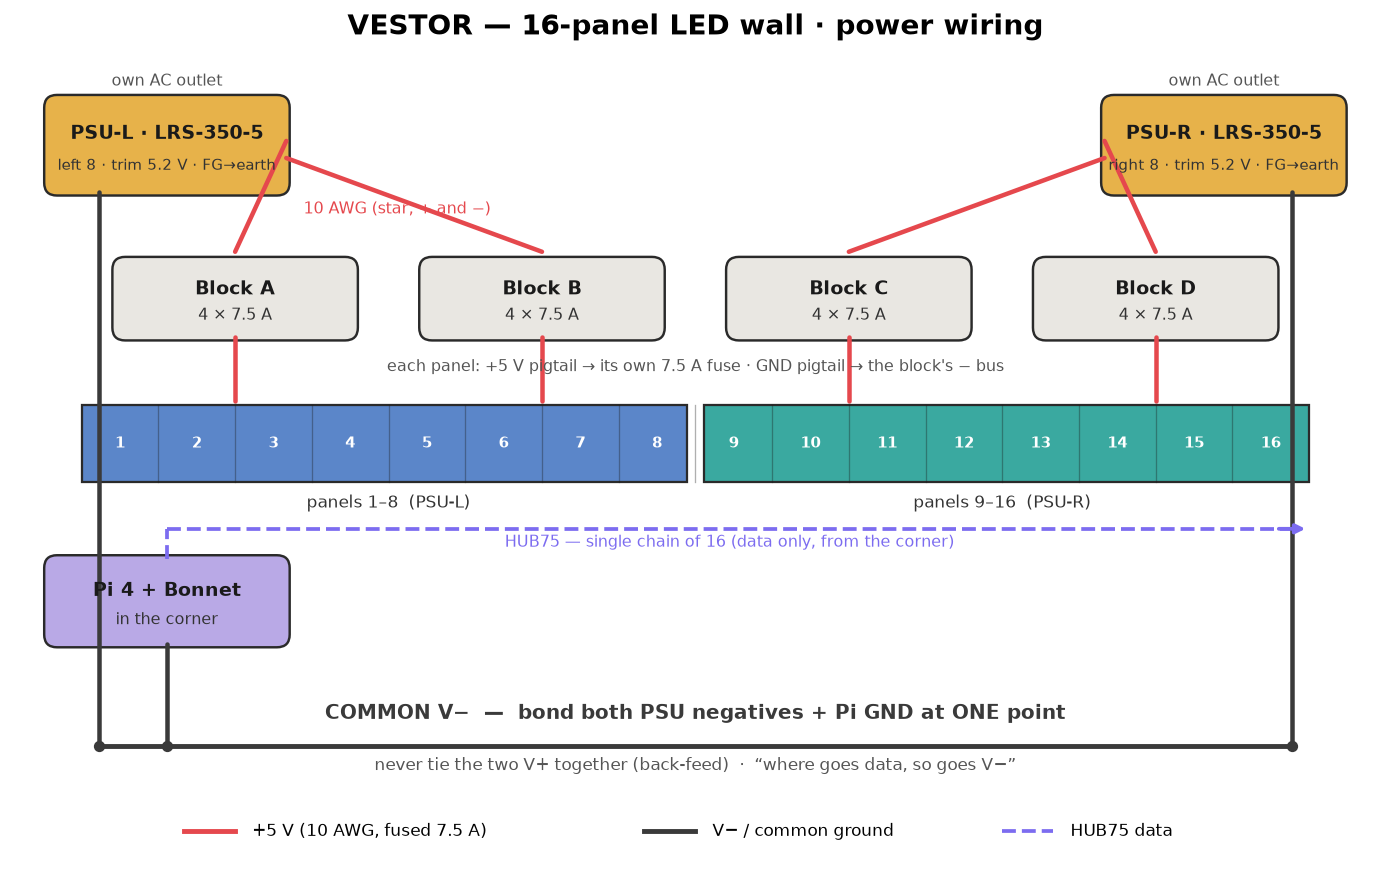
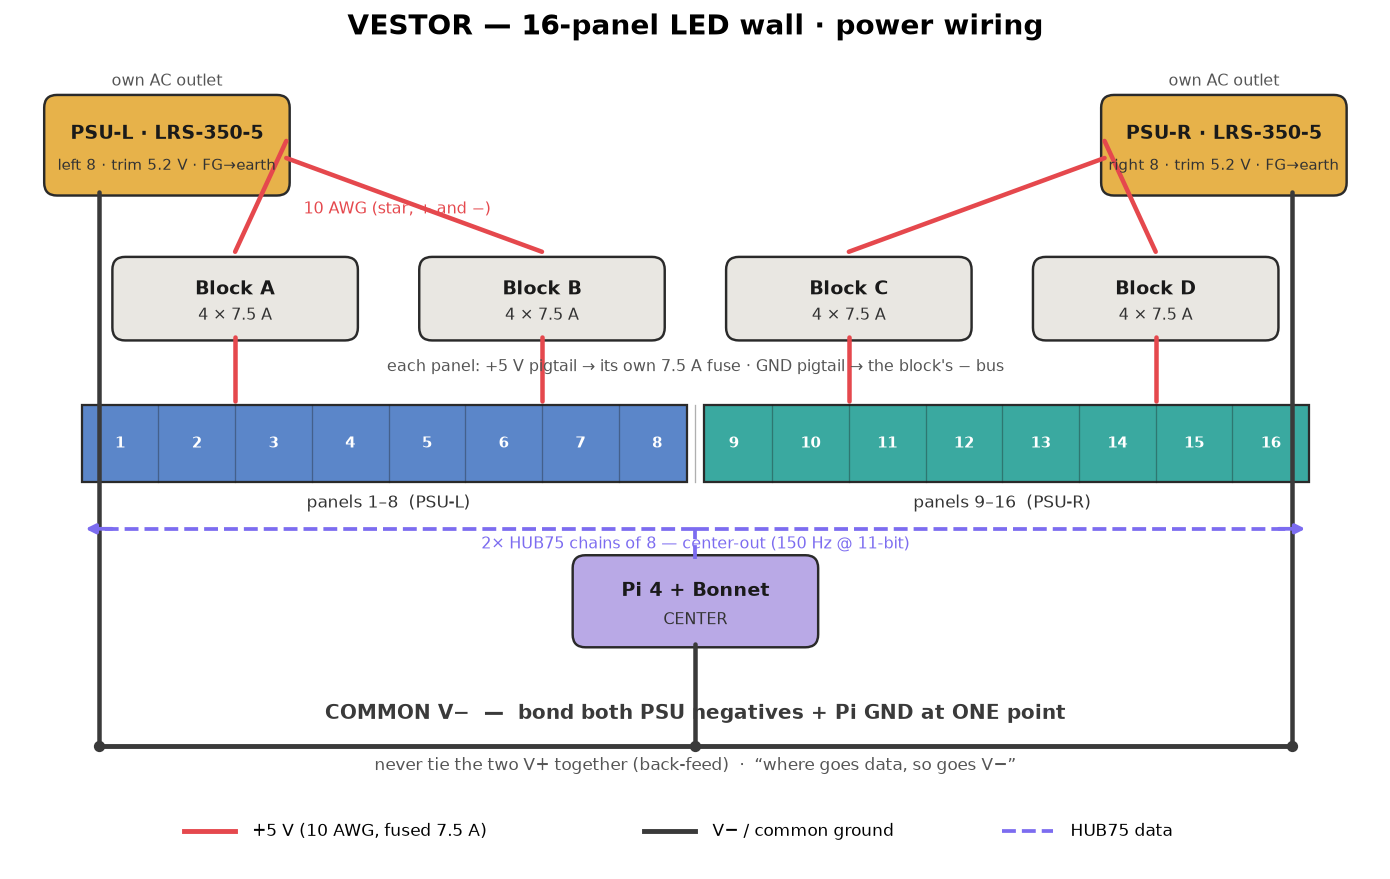
docs: back-of-house layout + switch to center-fed 2x8 topology
Two cited research passes (HUB75 chain topology; back-of-wall hiding + PSU thermal):
- TOPOLOGY REVERSED: single chain of 16 -> center-fed 2x8 (Pi center, U-mapper/Rotate).
  Wins on 11-bit vs 9-bit color depth (4x), 150 vs 111 Hz, and safe 8/chain signal
  (16/chain risks bright-text ghosting). The snake is a built-in launch flag, not code.
- BACK-OF-HOUSE: all electronics live in the ~22.5cm ceiling gap on a groove-hung backer
  strip (zero new wall holes); 2 hot fan-cooled PSUs at the ends (breathe, vents clear,
  10-15cm), Pi center, 4 fuse blocks distributed; DC + HUB75 dressed in separate looms;
  a removable, top-vented valance hides it as one clean trim band. New: BACK_OF_HOUSE.md,
  back_of_house.png elevation, updated wiring PNG (Pi center) + SETUP_SPEC electrical.

diff --git a/docs/design/BACK_OF_HOUSE.md b/docs/design/BACK_OF_HOUSE.md
@@ -1,0 +1,73 @@
+# VESTOR — BACK-OF-HOUSE (electronics siting + data topology)
+
+Where every non-panel thing physically lives, how it's hidden, and the final data
+topology. Backed by two cited research passes (HUB75 chain topology; back-of-wall
+electronics hiding + PSU thermal). Companion: `../ELECTRICAL.md` (power),
+`MOUNT_PARTS.md` (mount). Established 2026-07-02.
+
+![back of house](back_of_house.png)
+
+## The space: the ~22.5 cm ceiling gap is the service plenum
+
+Behind the panels there is only ~1 cm — nothing hides there. The home for all the
+hardware is the **~22.5 cm gap between the top of the panels and the ceiling**, running
+the full 5.1 m. Everything mounts to a **continuous backer strip hung from the SAME top
+wooden groove** (brackets drop a tongue into the groove and rise into the gap → **zero
+new wall holes**; the groove is structural and the added load is ~2–3 kg). Optionally add
+1–2 stud anchors for the strip itself as insurance — it's the only place dedicated anchors
+would ever be worth it, and even that's optional given the groove's margin.
+
+## What goes where (split by heat + the data topology)
+
+| Item | Location in the gap | Why |
+|---|---|---|
+| **2× LRS-350-5 PSUs** (hot, fan) | **one near each END**, lying flat (horizontal), **both short-end vents clear**, ≥10–15 cm of air, not stacked over each other or a fuse block | Mean Well: fan is thermostatic (on ≥50 °C), airflow is **end-to-end**, and it derates above 50 °C ambient — so they must *breathe*. Ends stay coolest + shortest 5 V runs to each half. |
+| **Raspberry Pi + Triple Bonnet** (cool) | **CENTER** | Feeds the two data chains outward (see topology). Runs cool → no thermal fuss; keep it off a PSU's exhaust. |
+| **4× fuse blocks** (cool) | distributed, one per 4-panel group, on the strip | No heat → cluster freely wherever the DC trunks break out. |
+
+**Thermal rule:** the valance (below) must make the gap behave like an **open shelf, not a
+sealed box** — a gap sealed front+ends is a heat trap. If either end of the wall opens to a
+cooler cavity/closet, dropping a PSU there (DC out into the gap) is the cleanest thermal answer.
+
+## Hiding it: a breathing valance
+
+Close the gap's front with a **removable, paintable valance** (MDF or 1× pine, full 5.1 m,
+painted to match) standing off the wall — but leave a **continuous vent reveal at the ceiling**
+so warm air rises out. It hides the row of silver boxes so the wall reads as **one clean trim
+band**, and stays **removable** (magnets/cleat/few screws) for service — required, since a PSU
+can't be permanently sealed (NEC). This is the pro-standard for a floating wall with no rear clearance.
+
+## Wiring dress
+- **10 AWG DC trunks** run along the strip, locked with adhesive/screw cable-tie mounts every
+  ~15–20 cm; a **short vertical pigtail drop at each panel**.
+- **Bundle like-with-like:** DC pigtails in one **spiral-wrap** loom (break out per panel), the
+  16 **HUB75 ribbons** in a separate sleeved spine — power and data don't tangle. Keep ribbons
+  gently arced (don't crease flat ribbon) and away from PSU exhaust.
+
+## DATA TOPOLOGY — center-fed 2×8 (SUPERSEDES the single chain of 16)
+
+**Locked: Pi in the CENTER, two chains of 8 in opposite directions** —
+`--led-chain=8 --led-parallel=2 --led-pixel-mapper="U-mapper;Rotate:180"` (orientation tuned
+once at bring-up). The Bonnet's two outputs land on the two **center panels (8 & 9)** → all
+ribbons short. Chosen over the end-fed single chain of 16 because it wins on every axis that
+matters for this content:
+
+- **Color depth:** **11-bit (2048 levels) vs 9-bit (512)** — 4× finer gradients; banding shows
+  worst in dark tones + slow fades, which *is* this board. (The big one.)
+- **Signal integrity:** 16-on-a-chain = 32,768 px on one serial clock — 2× past hzeller's
+  "already pushing limits," with ghosting on bright-text-over-dark as the documented failure.
+  **8/chain is the safe sweet spot**; the active bonnet cleans the first hop but doesn't re-drive
+  every panel. Center-feed also **shortens** every ribbon.
+- **Refresh/camera:** **150 Hz vs 111 Hz** — margin for peripheral flicker (you stand close to a
+  5 m wall), smoother swoop/split-flap motion, and cleaner phone video.
+- **Cost:** the "snake" is a **built-in launch flag** (U-mapper/Rotate), not code you maintain;
+  latency difference ~2 ms (imperceptible). Software already had the 2×8 snake logic.
+
+**Implications:** revert `display/__init__.py` to `parallel=2, chain=8` + the U-mapper; the
+"corner enclosure" CAD part becomes a **center enclosure**; the Pi's USB-C runs to center (its
+GND bonds to the common V−). PSUs still split L/R (power is independent of data).
+
+## Still to confirm on-site
+- The **panel's power-connector position** (decides up-vs-down pigtail routing).
+- Whether an end opens to a cooler cavity (better PSU home).
+- Valance material/finish to match the room.

diff --git a/docs/design/SETUP_SPEC.md b/docs/design/SETUP_SPEC.md
@@ -102,14 +102,18 @@ groove (open at bottom) takes an anti-swing tab pushed up into it → the assemb
 
 ## 6. Electrical — LOCKED
 
-- **Feed: single chain of 16 from the corner** — `--led-chain=16 --led-parallel=1`,
-  **`pwm_bits=9` → measured 111 Hz** on the Pi (flicker-free for this static-ish board).
-  All HUB75 ribbons stay short; **removes the "snake"/180° left-half flip** in
-  `display/__init__.py`. (Supersedes the old 2×8 center-feed.)
-- **Power: 2× Mean Well LRS-350-5** (5 V/60 A). Keep 5 V drop < 3 %: put **PSU2 out near
-  the right half** (short runs), OR a heavy 5 V bus if all-in-corner. `BRIGHTNESS ≤ 50`.
-- **Brain: Raspberry Pi 4 + Adafruit Triple RGB Matrix Bonnet 6358** (regular mapping),
-  in the corner.
+- **Feed: center-fed 2×8** — `--led-chain=8 --led-parallel=2 --led-pixel-mapper="U-mapper;Rotate:180"`,
+  **`pwm_bits=11` → measured 150 Hz** on the Pi. Pi in the CENTER, two chains of 8 outward
+  (Bonnet outputs land on center panels 8 & 9). Chosen over the single chain of 16 for **11-bit
+  vs 9-bit color depth, 150 vs 111 Hz, and safe 8/chain signal integrity** (16/chain risks
+  bright-text ghosting) — see `BACK_OF_HOUSE.md`. (Reverses the earlier "single chain of 16".)
+- **Power: 2× Mean Well LRS-350-5** (5 V/60 A), **SPLIT one per half** (PSU-L left end, PSU-R
+  right end, each own AC outlet); per-panel **7.5 A** fused; **10 AWG** star trunks; trim ~5.2 V;
+  bond both V− + Pi GND, never V+. `BRIGHTNESS ≤ 50`. Full detail: **`../ELECTRICAL.md`**.
+- **Brain: Raspberry Pi 4 + Adafruit Triple RGB Matrix Bonnet 6358** — in the **center** of the
+  ceiling gap; USB-C powered; Bonnet 5 V terminal empty, Bonnet GND → PSU-L V−.
+- **Siting: all electronics in the ~22.5 cm ceiling gap** on a groove-hung backer strip, hidden
+  by a removable vented valance (`BACK_OF_HOUSE.md`).
 
 ---
 